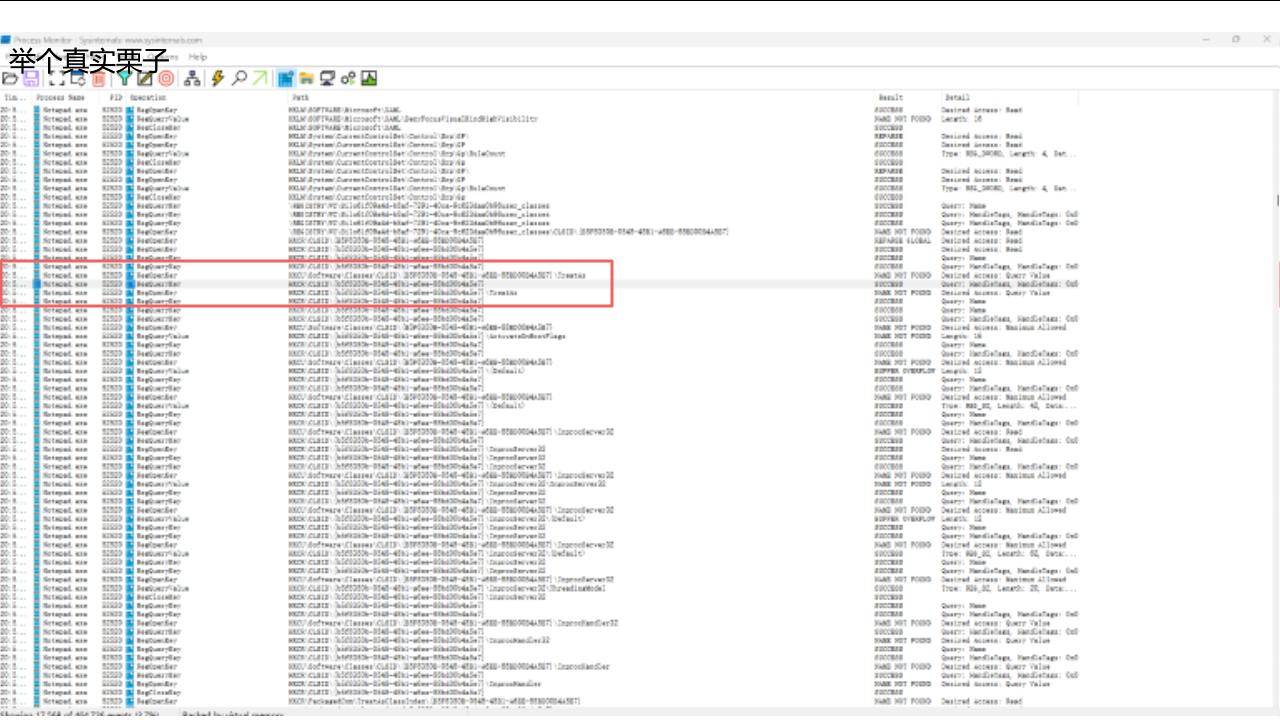
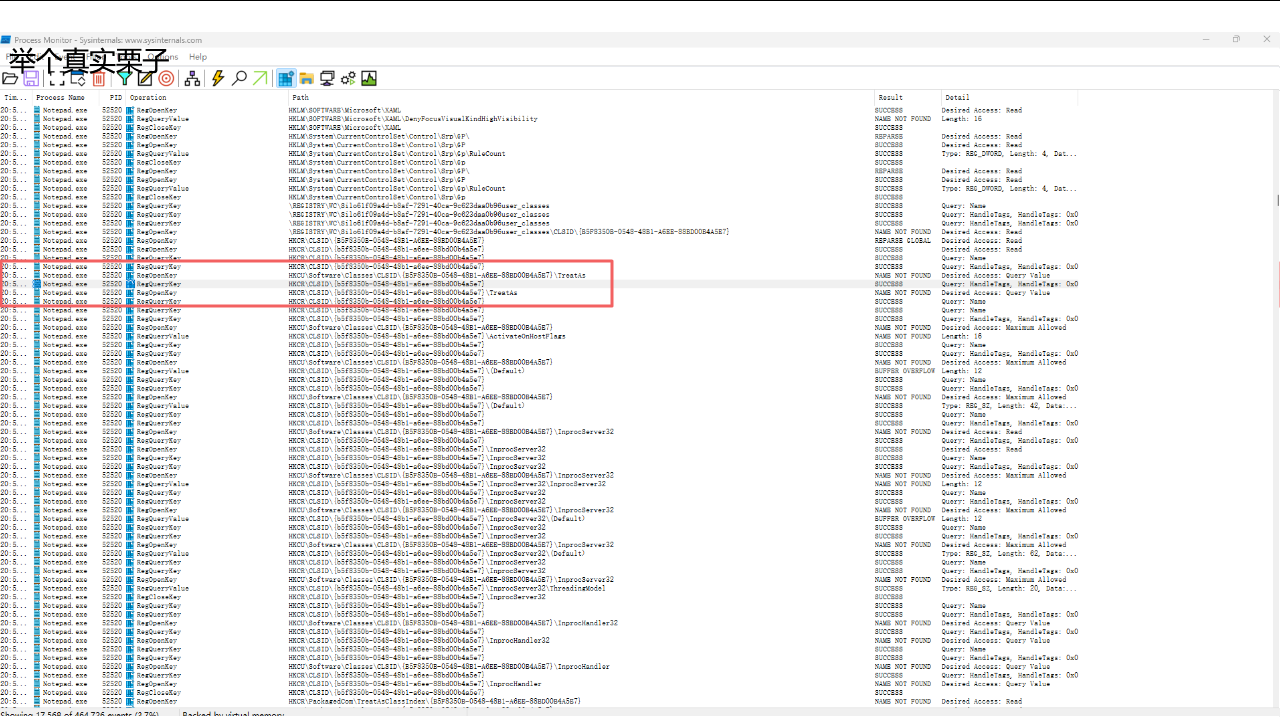
2024年9月21日 7:25:27

Changed region(s): [[0.0, 0.0611, 0.5625, 1.0], [0.6875, 0.1222, 0.8438, 0.9778]]

diff --git a/Windows 调试工具课程.md b/Windows 调试工具课程.md
@@ -11,7 +11,7 @@ Windows 调试工具课程——在软件万种死法中调试出原因
 
 本文是我在集团内部上的课程记录而成的博客内容。在本次课程里面将和大家介绍一些在 Windows 上常用的调试工具，以及调查问题的常见套路。适合于伙伴们入门 Windows 调试
 
-本文以下内容是采用原本课程课件里面的一页页的内容组装而来，过程中补充一些讲课时的内容
+本文内容的组织方式是按照原本课程课件里面的一页页的内容组装而来的方式组织的，在过程中补充一些讲课时的内容
 
 <!-- ![](image/Windows 调试工具课程/Windows 调试工具课程0.png) -->
 ![](http://cdn.lindexi.site/lindexi%2F2024919842595851.jpg)
@@ -122,7 +122,7 @@ Windows 调试工具课程——在软件万种死法中调试出原因
 
 假设进程还在的话，那最简单的捞 DUMP 方式就是通过任务管理器右键选择创建内存转储文件了。对应的英文系统是 Create memory dump file 菜单项
 
-这里需要额外说明的是，如果当前系统是 x64 系统，但是自己的进程是 x86 进程，那此时不建议使用默认打开的任务管理器捞 DUMP 文件。因为默认打开的任务管理器是 x64 的，打出来的是 x64 转储文件，包含 WoW64 子系统的信息。详细请看 [你生成的转储文件有问题吗？ - 知乎](https://zhuanlan.zhihu.com/p/103381060 )
+这里需要额外说明的是，如果当前系统是 x64 系统，但是自己的进程是 32 位进程，那此时不建议使用默认打开的任务管理器捞 DUMP 文件。因为默认打开的任务管理器是 x64 的，打出来的是 x64 转储文件，包含 WoW64 子系统的信息。详细请看 [你生成的转储文件有问题吗？ - 知乎](https://zhuanlan.zhihu.com/p/103381060 )
 
 正确的做法应该是使用 `C:\Windows\SysWOW64\Taskmgr.exe` 的任务管理器去捞 DUMP 文件
 
@@ -443,101 +443,219 @@ DebugView 工具下载地址： <https://learn.microsoft.com/en-us/sysinternals/
 
 详细的调试内容可比这里介绍的有趣的很，请看 [记一次调试资源管理器未响应经验](https://blog.lindexi.com/post/%E8%AE%B0%E4%B8%80%E6%AC%A1%E8%B0%83%E8%AF%95%E8%B5%84%E6%BA%90%E7%AE%A1%E7%90%86%E5%99%A8%E6%9C%AA%E5%93%8D%E5%BA%94%E7%BB%8F%E9%AA%8C.html )
 
-
 <!-- 事后现场 -->
 <!-- ![](image/Windows 调试工具课程/Windows 调试工具课程58.png) -->
 ![](http://cdn.lindexi.site/lindexi%2F202491994381765.jpg)
 
+以上的案例里面 Process Monitor 立了首功，通过 Process Monitor 工具抓取了 explorer 进程的信息，发现了进程退出的信息，以及退出之前访问了蓝牙相关模块，最终通过 ShellView 工具禁用了蓝牙模块定位到了具体模块导致的问题。在许多事后现场问题中，都会使用 Process Monitor 工具配合复现，尝试找到故障之前的事前发生了什么，了解故障之前的行为。进而可以缩小定位问题的方向
+
+Process Monitor 工具适用于辅助调试不熟悉的应用、复杂的情况，通过了解其行为来辅助缩小定位范围，提高调试效率。同时 Process Monitor 工具可以一口气抓多个进程的信息，也常用于辅助定位进程们团伙作案问题
+
 <!-- ![](image/Windows 调试工具课程/Windows 调试工具课程59.png) -->
 ![](http://cdn.lindexi.site/lindexi%2F20249199458574.jpg)
 
+以上就是调查思路里面的第二大方向的事后现场的内容。其思想核心就是通过复现配合工具抓取现场信息，通过现场信息进一步分析问题
+
 <!-- ![](image/Windows 调试工具课程/Windows 调试工具课程60.png) -->
-![](http://cdn.lindexi.site/lindexi%2F20249199599190.jpg)
+![](http://cdn.lindexi.site/lindexi%2F2024919213128726.jpg)
+
+有时候调查问题过程中没有头绪，没有思路。此时可以还可以试试一些常见问题的探索，尝试通过这些常用问题套路和经验找到入手点
 
 <!-- ![](image/Windows 调试工具课程/Windows 调试工具课程61.png) -->
 ![](http://cdn.lindexi.site/lindexi%2F20249199688371.jpg)
 
+这些常见的工具可以帮助我们进行一些常见问题的排查。有时候开发任务紧张，没有充足的时间进行全面的调查，通过常用的套路也可以提高定位效率，不一定我们需要来一次全面的调查，有可能只通过现象和猜测，配合常用套路就能找到问题的原因
+
 <!-- ![](image/Windows 调试工具课程/Windows 调试工具课程62.png) -->
 ![](http://cdn.lindexi.site/lindexi%2F202491996191828.jpg)
+
+这些常用工具和套路被我成为更多的调试工具，分为以下多个方面：
+
+- 系统环境问题-依赖缺失等问题
+- 内存问题，包括 OOM 系问题
+- 注册表相关模块
+- 窗口相关模块
+- 键盘等等
+
+这些方面都可以作为常见问题的入手点探索方向
 
 <!-- ![](image/Windows 调试工具课程/Windows 调试工具课程63.png) -->
 ![](http://cdn.lindexi.site/lindexi%2F202491996414208.jpg)
 
+先来聊聊依赖缺失问题
+
 <!-- ![](image/Windows 调试工具课程/Windows 调试工具课程64.png) -->
 ![](http://cdn.lindexi.site/lindexi%2F202491996542473.jpg)
+
+依赖缺失的表现行为很明显，一般就是程序猿常说的，“在我电脑上明明就是好的，为什么到你电脑上就不行了”这类的话，那就可以第一时间怀疑是依赖缺失问题。或者是软件无法启动，启动即崩溃，这类问题也可以怀疑是依赖缺失问题。或者是软件开始能跑，但是跑到某个模块就崩溃了，且很固定的到某个功能模块就崩溃，那此时也能怀疑是依赖缺失问题
+
+有些不熟悉 Windows 的伙伴也许有这样的问题，明明自己写的应用似乎就没有什么依赖，为什么还可能遇到依赖缺失的问题呢？这是因为 Windows 系统本身就是一个依赖系统，很多功能都是通过依赖来实现的。比如说一个最简单的例子，你写了一个 C# 程序，但是你的 C# 程序里面调用了一个 MessageBox 函数，这个 MessageBox 函数是 Windows 系统的一个函数，你的 C# 程序调用了这个函数，那你的 C# 程序就依赖了 Windows 系统的 MessageBox 函数。如果你的 C# 程序在别的电脑上运行，别的电脑上没有这个 MessageBox 函数，那你的 C# 程序就会崩溃。软件运行过程中，需要依赖许多组件，包括直接依赖和间接依赖。有可能在代码编写阶段没有引入依赖，但实际上软件已经带上了许多隐式依赖内容，如常见的 C++ 程序需要的 VC++ 运行时依赖等等。这些依赖可能会在复杂的用户环境里遭遇投毒问题，导致软件无法正常运行
 
 <!-- 找不到，找错 DLL -->
 <!-- ![](image/Windows 调试工具课程/Windows 调试工具课程65.png) -->
 ![](http://cdn.lindexi.site/lindexi%2F20249199783236.jpg)
 
+依赖缺失问题首推是采用 Dependencies 工具，使用这个工具可以帮助我们定位两种类型的问题：
+
+- 是否在目标机器上依赖缺失问题
+- 是否在目标机器上的依赖被投毒
+
+Dependencies 工具开源地址： <https://github.com/lucasg/Dependencies>
+
 <!-- ![](image/Windows 调试工具课程/Windows 调试工具课程66.png) -->
 ![](http://cdn.lindexi.site/lindexi%2F202491997303257.jpg)
+
+识别依赖缺失问题的方法就是将自己的应用拖入到 Dependencies 工具里面，然后看看是否有缺失依赖的提示。如上图所示，可以看到这个应用缺乏了一个名为 Lindexi.dll 的依赖。此时可以看看输出文件里面是否真的包含了这个依赖文件，如果没有，那就说明这个依赖确实是缺失的。如果有，那再看看这个依赖文件的二进制是否符合预期，如可能被修改或者下载不全等问题
 
 <!-- ![](image/Windows 调试工具课程/Windows 调试工具课程67.png) -->
 ![](http://cdn.lindexi.site/lindexi%2F202491997422909.jpg)
 
+常用的依赖缺失调查方向套路是看看是否有 C++ 运行时系列的丢失。其中 C++ 运行时系列常见的就是 VC++ 的多个版本的分发库，或者是 VC++ 运行时，即 vcruntime140.dll 文件。以及 msvcp140.dll 文件缺失。其中重点需要说明的是，如果能看到有 vcruntime140d.dll 文件的依赖，那就证明开发侧存在问题，这里的 vcruntime140d.dll 的意思是 VC++ runtime 14.0 debug 版本的 dll 的意思。如果看到有这个 dll 的依赖，证明你的相关方提供给你的 C++ 库是使用 Debug 版本构建的，这是不能给到用户端的。最佳方法是重新让其构建一个 Release 版本的 DLL 给你。只有在实在没有办法的时候，才考虑在用户端配上开发环境
+
+另一个就是看看是否有 ucrt 系列的丢失，这个常见就是软件能在 Win10 上跑得好好的，在 Win7 上就启动不了。常见就是缺失了 ucrt 系列的依赖。如果是遇到这种问题，简单的做法就是将这些文件拷贝到软件运行目录下，或者是将这些文件打包到软件的安装包里面即可
+
+最后一个就是看看是否有某些仅在开发机才有的负载，如我就喜欢引用一个名为 Lindexi.dll 的文件，这个依赖文件只在我的电脑上存在，用户设备上是绝对没有的，那自然在用户设备上跑不起来也就符合预期了
+
 <!-- ![](image/Windows 调试工具课程/Windows 调试工具课程68.png) -->
 ![](http://cdn.lindexi.site/lindexi%2F202491997541283.jpg)
+
+使用 Dependencies 工具除了找依赖缺失之外，还可以用来找到是否被投毒的问题。如上图所示，看大家是否能够快速看出来问题
 
 <!-- ![](image/Windows 调试工具课程/Windows 调试工具课程69.png) -->
 ![](http://cdn.lindexi.site/lindexi%2F20249199851991.jpg)
 
+是的，上图里面包含了一个名为 vcruntime140.dll 文件，包含这个文件是正常的，但是不正常的地方在于其路径。为什么 vcruntime140.dll 加载的居然是在 `C:\Program Files (x86)\Foo` 文件夹里，这就证明被投毒了。大家可以在工具里面看看有没有存在不熟悉或奇怪的路径，如果有，那就可能是投毒的问题？这个问题就需要进一步的调查了
+
+如我记录的 [影子系统让 C++ 程序无法运行](https://blog.lindexi.com/post/%E5%BD%B1%E5%AD%90%E7%B3%BB%E7%BB%9F%E8%AE%A9-C++-%E7%A8%8B%E5%BA%8F%E6%97%A0%E6%B3%95%E8%BF%90%E8%A1%8C.html ) 这篇博客提到的就是非常标准的被投毒的问题，大家可以看到 MSVCR100.dll 加载的路径是在 `C:\Program Files\PowerShadow\App` 文件夹里面
+
 <!-- ![](image/Windows 调试工具课程/Windows 调试工具课程70.png) -->
 ![](http://cdn.lindexi.site/lindexi%2F202491998185327.jpg)
 
+以上就是常用套路里面的调查依赖缺失问题，不仅仅可能是崩溃等问题，有时候软件运行功能不正常也可以看看是否有依赖缺失或被投毒的问题
+
 <!-- ![](image/Windows 调试工具课程/Windows 调试工具课程71.png) -->
 ![](http://cdn.lindexi.site/lindexi%2F202491998309059.jpg)
+
+继续看一下内存问题
 
 <!-- 任务管理器 -->
 <!-- ![](image/Windows 调试工具课程/Windows 调试工具课程72.png) -->
 ![](http://cdn.lindexi.site/lindexi%2F202491998508245.jpg)
 
+对 Windows 内存机制不了解的伙伴也许常常会拿任务管理器里面看到的内存数值当成衡量应用软件运行占用内存的标准。比如我说软件已经 OOM 了，但是对Windows 内存机制不了解的伙伴拿出任务管理器一看，发现应用软件才占用 300MB 内存而已，于是就完全不相信可能存在的 OOM 问题
+
+这里说的 OOM 问题指的是 OutofMemory 经典问题，直接表现就是内存不足了，代码里面想要申请内存但是申请内存失败
+
+在开始聊这个话题之前，需要先做一点点科普。如果大家想要看一个符合客观事实的应用软件运行过程的内存使用情况，应该使用 VMMap 工具查看，而不是任务管理器。任务管理器只能当成一个快速查看的工具，而不是一个准确的工具。VMMap 工具可以帮助我们查看应用软件的内存使用情况，包括了虚拟内存、物理内存、私有内存、共享内存等等
+
+VMMap 工具下载地址： <https://learn.microsoft.com/zh-cn/sysinternals/downloads/vmmap>
+
+应用软件的内存使用是一个相对复杂的话题，不仅仅是看看占用了多少内存就能判断的。因为事实上一个应用软件的运行占用内存是需要分至少三个维度去看的。最直接的维度就是私有内存和共享内存的占用。一般而言，对于共享内存的占用咱是不做多关注的。另一个维度是内存使用种类。其中开发人员在进行应用软件的内存优化时，常常直接触碰的应该就是 Private Data 的 Private 部分。即前面两个维度里面的私有内存和 Private Data 种类。以及 Stack 的 Private 部分。而至于如 Image 等部分，就常常不是开发人员所关注的。这里需要对 Image 特别说明的是，这个单词在这里的意思不是图片的意思，至少不是类似于 png 或 jpg 图片的意思，而应该是内存映像之类的意思，常见的就是所加载的库。有时候可以看到这部分的 Size 大小非常大，这是没有问题的，非常正常的。比如说软件加载了显卡驱动模块，这个模块的 DLL 文件一下值就几百 MB 大小，这部分就直接被统计到 Image 部分里面，所以说这部分一般情况下不是开发人员所关注的
+
+最后一个维度就是是否在 WorkingSet 里面。在 VMMap 工具里面的 WorkingSet 被缩写为 WS 单词。简单但不准确的理解 WorkingSet 工作集就是物理内存占用量。相信大家都知道 Windows 上有可放在硬盘上的虚拟内存和放在内存条里面的物理内存的概念。可以认为 WorkingSet 就是物理内存占用量。详细的概念请看官方文档： <https://learn.microsoft.com/zh-cn/windows/win32/memory/working-set>
+
+在任务管理器里面常常看到的就是 WorkingSet 的占用量。但是这个占用量并不是准确的，至少可能一次 [EmptyWorkingSet](https://learn.microsoft.com/zh-cn/windows/win32/api/psapi/nf-psapi-emptyworkingset) 就可以将大量的在物理内存里面的内存转换到硬盘上。于是单纯靠任务管理器里面的内存占用来尝试衡量应用软件的内存使用情况是不准确的。特别是在调查 OOM 问题以及对比多个应用软件的内存使用情况时，任务管理器里面的内存占用是不具备参考意义的，看任务管理器里面的内存占用会被误导
+
+额外聊一个小知识，如果你的用户半懂不懂，想要在任务管理器里面看到的内存很低。那简单的做法就是定时调用一下 [EmptyWorkingSet](https://learn.microsoft.com/zh-cn/windows/win32/api/psapi/nf-psapi-emptyworkingset) 函数好了。据说 360 加速球就是这么做的
+
+常用的调查套路里面，可以使用 VMMap 工具来查看应用软件的内存使用情况，看看软件当前现场是否有内存使用异常的情况。此时需要关注点可能还需要包括碎片化问题，内存泄露问题。碎片化问题指的是尽管内存还有空间余量，但是申请内存却失败了，因为内存虽然够但是碎片化的存在，无法找到连续的内存空间。内存泄露问题指的是内存申请后没有释放，导致内存占用越来越高的问题
+
+额外说明一个知识点，对于 32 位进程来说，用户态能使用的内存就是 2 GB 空间。一旦发现应用软件已经用了考虑 2GB 的内存空间，则可以认为这个软件可能已经发生了 OOM 问题了。因为配合碎片化问题的存在，接近 2GB 的内存空间就有可能存在无法申请足够的连续的内存空间而导致 OOM 问题。一旦发生了 OOM 问题，可能会导致软件进入非预期逻辑分支，如本该初始化的逻辑没有初始化，导致后续访问出现空异常等问题
+
+这些时候，配合 ProcDump 一起食用效果更好。如果通过 VMMap 工具感觉到可能是内存问题，那此时通过 ProcDump 抓一个 DUMP 文件回来分析，可能会有更多的收获
+
 <!-- ![](image/Windows 调试工具课程/Windows 调试工具课程73.png) -->
 ![](http://cdn.lindexi.site/lindexi%2F2024919995430.jpg)
+
+通过 VMMap 不仅可以查看应用软件真实内存是怎样，还可以在用户设备上进行简单的调试。如追踪软件启动，找到是哪个模块在申请内存。因为很有可能只有在某个用户的设备上才会存在问题，那在对应的用户的设备上跑 VMMap 寻找申请大量内存的模块是非常有帮助的
+
+通过 VMMap 也可以看到是否有内存碎片化的存在，即内存空间一看就发现出现非常多的碎片化的情况
 
 <!-- dotMemory -->
 <!-- ![](image/Windows 调试工具课程/Windows 调试工具课程74.png) -->
 ![](http://cdn.lindexi.site/lindexi%2F202491999256398.jpg)
 
+当然了，对于 dotnet 系的应用来说，别忘了还有 dotMemory 这个好用的工具。这个工具既可以在用户设备上跑起来，抓取到应用软件运行内存的 dotnet 系信息，还可以对捞回来的 DUMP 文件进行分析。这个软件的交互做的非常好，有可能大家看界面就知道如何使用了
+
+通过 dotMemory 工具可以看到各个模块的内存申请情况，各个类型存在内存的数量，以及各个类型的引用情况。适合于寻找内存泄露问题以及通过内存情况反推出软件的代码运行逻辑
+
 <!-- ![](image/Windows 调试工具课程/Windows 调试工具课程75.png) -->
 ![](http://cdn.lindexi.site/lindexi%2F202491999415134.jpg)
+
+在聊到内存 OOM 相关问题时，一个会被开发者忽略的点是可能遇到的是爆 GDI 对象的问题。试试打开任务管理器，在选择列里开启 GDI 对象列，看看进程占用的 GDI 对象有多少
 
 <!-- ![](image/Windows 调试工具课程/Windows 调试工具课程76.png) -->
 ![](http://cdn.lindexi.site/lindexi%2F202491999539041.jpg)
 
+许多的 GDI 对象所占用的内存都不计入到进程里面，这就导致了进程看起来没有使用多少内存，但是系统全局的内存却是不足了。或者是进程使用了大量的 GDI 对象，导致了许多 GDI 相关函数调用失败，而通过 LastErrorCode 获取到的错误被翻译为 OOM 相关错误，进而表现出 OOM 现象
+
+此时可以通过任务管理器快速确定是否是 GDI 对象爆炸问题，然后通过 GDIView 工具查看 GDI 对象的使用情况。GDIView 工具可以帮助我们查看系统全局的 GDI 对象使用情况，以及每个进程的 GDI 对象使用情况
+
+GDIView 工具下载地址： <https://www.nirsoft.net/utils/gdi_handles.html>
+
+举一个实际的案例，我的师兄写了一个程序，这个程序会不断使用 GDI 获取屏幕截图，此时获取到了大量的 Bitmap 对象，导致了系统资源大量被消耗，反过来导致可用物理内存不足，最终导致了 OOM 问题
+
+通过任务管理器看到我的师兄的程序的 GDI 对象十分多，再通过 GDIView 工具看到了大量的 Bitmap 对象，如此即可快速找到入手点。经过和师兄沟通发现可能是截图相关模块存在 GDI 对象泄露问题，反复复现和截图模块相关逻辑，看到任务管理器的 GDI 对象数量不断添加，就快速定位到了问题
+
 <!-- ![](image/Windows 调试工具课程/Windows 调试工具课程77.png) -->
 ![](http://cdn.lindexi.site/lindexi%2F202491991048352.jpg)
+
+以上就是本课程介绍的 OOM 问题的常用调查套路和工具。使用 VMMap 工具了解真实的内存是怎样的，避免被任务管理器误导。可在用户设备上跑 VMMap 工具了解到是哪个模块申请了大量内存，以及是否存在内存碎片化问题。使用 dotMemory 工具了解到 dotnet 系的内存使用情况，以及可能存在的内存泄露问题。如果内存没有问题，那就多看一下 GDI 对象的使用量，使用 GDIView 工具了解到 GDI 对象的使用情况
 
 <!-- ![](image/Windows 调试工具课程/Windows 调试工具课程78.png) -->
 ![](http://cdn.lindexi.site/lindexi%2F2024919910142113.jpg)
 
+内存是一个复杂庞大的话题，本课程这里只和大家介绍了一些常见的简单情况，希望能给大家在没有调查思路的时候提供一些入手点
+
 <!-- ![](image/Windows 调试工具课程/Windows 调试工具课程79.png) -->
 ![](http://cdn.lindexi.site/lindexi%2F2024919910262710.jpg)
+
+接下来来看看 Windows 系上特有的一个问题，注册表问题
 
 <!-- 注册表问题 -->
 <!-- ![](image/Windows 调试工具课程/Windows 调试工具课程80.png) -->
 ![](http://cdn.lindexi.site/lindexi%2F2024919910477886.jpg)
 
+注册表问题也是一个常被 Windows 开发新手忽略的问题。有些开发者有疑惑说，我的应用代码里面明明都没有碰到注册表，为什么还可能会有注册表相关问题。其实跑在 Windows 上的程序，无论如何都会碰到注册表的。从软件进程的启动开始就在碰注册表，后续的加载 COM 组件等，都会涉及到注册表。注册表问题可能会导致软件无法启动，启动即崩溃，启动后功能不正常等问题
+
 <!-- ![](image/Windows 调试工具课程/Windows 调试工具课程81.png) -->
 ![](http://cdn.lindexi.site/lindexi%2F2024919910583214.jpg)
 
+注册表问题可能有些深奥，本课程这里只介绍一个简单的真实案例。我发现我的 Notepad 记事本软件启动就炸掉了，不知道为什么。我通过 Process Monitor 工具抓取时，发现了其注册表有以下有趣的行为。这里就是非常靠近软件进程退出的地方
+
 <!-- ![](image/Windows 调试工具课程/Windows 调试工具课程82.png) -->
-![](http://cdn.lindexi.site/lindexi%2F202491991192760.jpg)
+![](http://image.acmx.xyz/lindexi%2F20249202024222316.jpg)
+
+由于 Process Monitor 工具抓取注册表行为时非常刷屏，降低大家的难度，我将有问题的一行日志选择了出来，看看大家是否猜到问题
 
 <!-- ![](image/Windows 调试工具课程/Windows 调试工具课程83.png) -->
 ![](http://cdn.lindexi.site/lindexi%2F2024919911229541.jpg)
 
+其实这个案例里面我的调查是靠经验的，这里刚好是我上回学习 COM 组件劫持时所投的毒。可以试试将注册表的各个访问项在搜索引擎里面搜索一下，看看是否有人说这个注册表项是有问题的。如果有，那就可以尝试根据网上提供的方法进一步定位问题
+
 <!-- ![](image/Windows 调试工具课程/Windows 调试工具课程84.png) -->
 ![](http://cdn.lindexi.site/lindexi%2F2024919911351885.jpg)
+
+相信刚才通过 Process Monitor 工具大家也感受到了被注册表刷屏的恐惧。如果应用软件的表现行为是第一次能跑，第二次就不能跑，且可能是和注册表有关的时候。此时可以尝试一下 RegistryChangesView 和 whatchanged 工具，通过这些工具可以快速帮助大家找到从事前到事后注册表的变化情况，减少刷屏的影响，提升调查效率
+
+RegistryChangesView 工具下载地址： <https://www.nirsoft.net/utils/registry_changes_view.html>
+
+whatchanged 工具下载地址： <https://www.majorgeeks.com/files/details/what_changed.html>
 
 <!-- ![](image/Windows 调试工具课程/Windows 调试工具课程85.png) -->
 ![](http://cdn.lindexi.site/lindexi%2F2024919911451278.jpg)
 
+通过 RegistryChangesView 和 whatchanged 工具配合找到注册表变更项，再通过 Process Monitor 工具进一步辅助定位，可以了解到是哪个进程改了注册表，改了什么内容以及在什么时候改的。这样就可以帮助大家更好找到问题的入手点
+
 <!-- ![](image/Windows 调试工具课程/Windows 调试工具课程86.png) -->
 ![](http://cdn.lindexi.site/lindexi%2F2024919911563978.jpg)
 
+注册表相关问题如果深入了解还是非常有深度的，本课程这里只介绍了一个简单的案例。希望大家能够通过这个案例了解到注册表问题的存在，以及通过 Process Monitor 工具，RegistryChangesView 和 whatchanged 工具等工具帮助大家更好的调查注册表问题
+
 <!-- ![](image/Windows 调试工具课程/Windows 调试工具课程87.png) -->
 ![](http://cdn.lindexi.site/lindexi%2F202491991268901.jpg)
+
+接下来看看窗口相关模块的问题
 
 <!-- ![](image/Windows 调试工具课程/Windows 调试工具课程88.png) -->
 ![](http://cdn.lindexi.site/lindexi%2F2024919912181649.jpg)
@@ -565,3 +683,10 @@ DebugView 工具下载地址： <https://learn.microsoft.com/en-us/sysinternals/
 
 <!-- ![](image/Windows 调试工具课程/Windows 调试工具课程96.png) -->
 ![](http://cdn.lindexi.site/lindexi%2F202491992020611.jpg)
+
+以上就是本次课程的内容，希望大家能够通过这次课程了解到一些常用 Windows 调试工具的使用方法，以及了解到一些常用的调试套路。希望能在实际的软件开发调试过程中有所帮助
+
+更多 dotnet 系的代码调试方法请参阅： [dotnet 代码调试方法](https://blog.lindexi.com/post/dotnet-%E4%BB%A3%E7%A0%81%E8%B0%83%E8%AF%95%E6%96%B9%E6%B3%95.html )
+<!-- [dotnet 代码调试方法-腾讯云开发者社区-腾讯云](https://cloud.tencent.com/developer/article/1446477 ) -->
+
+更多技术博客，请参阅 [博客导航](https://blog.lindexi.com/post/%E5%8D%9A%E5%AE%A2%E5%AF%BC%E8%88%AA.html )
